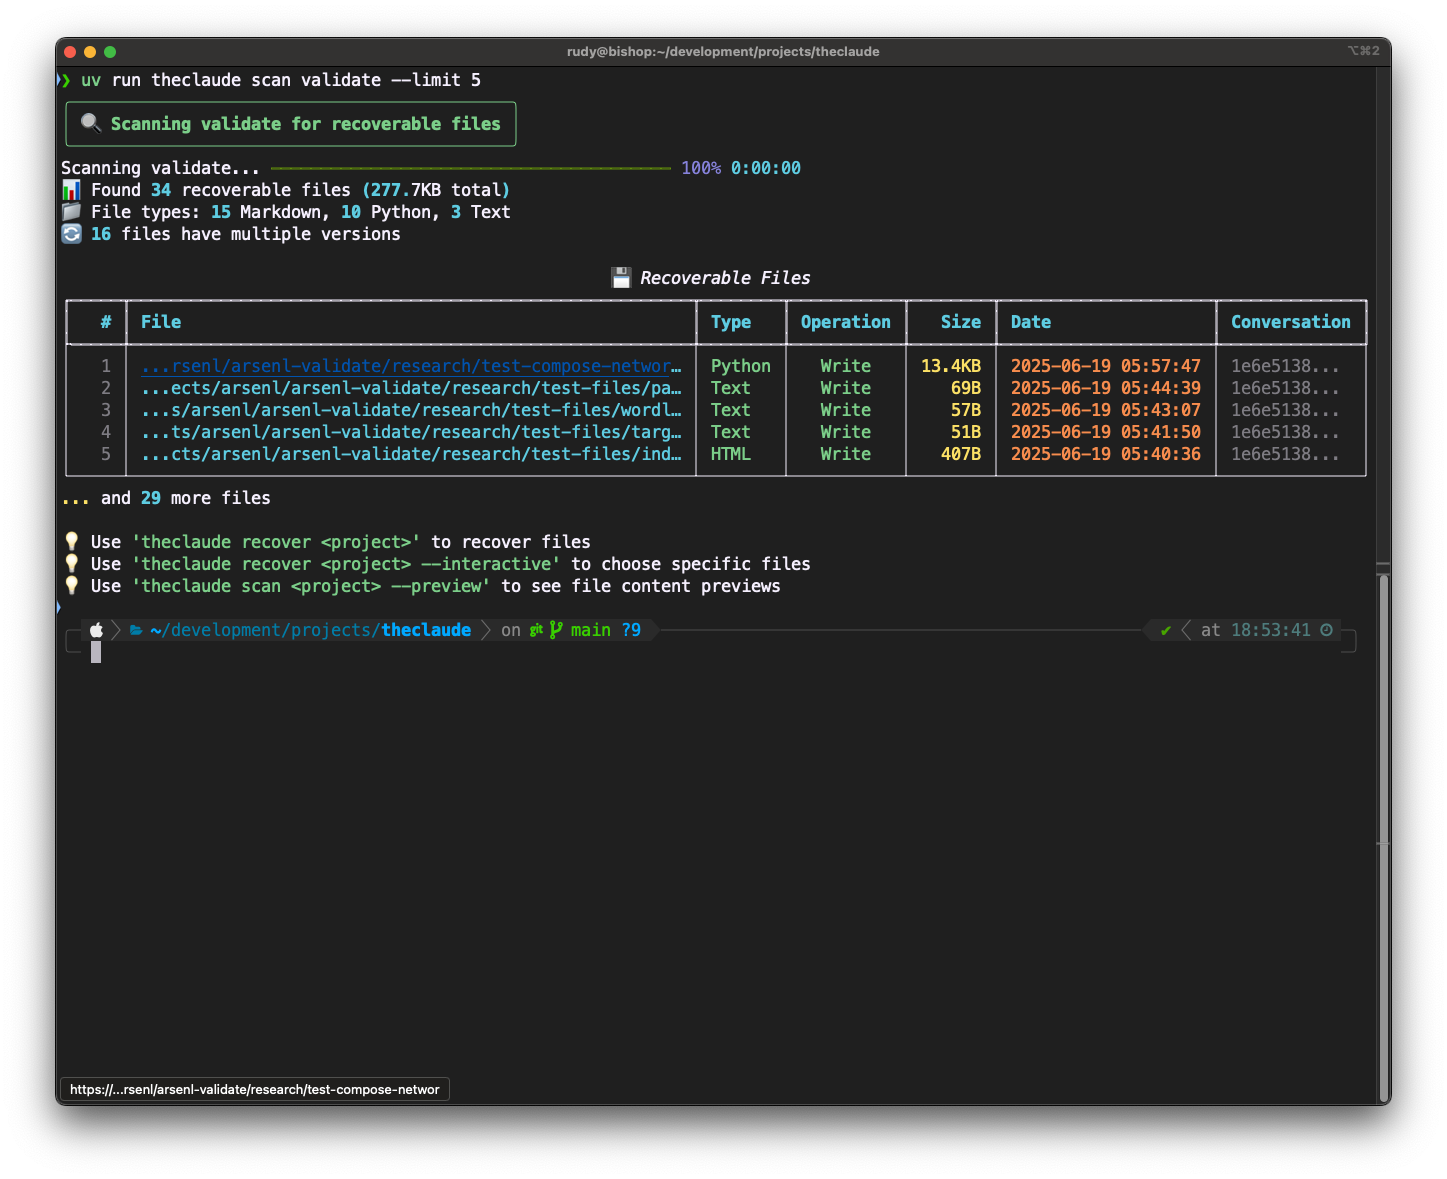
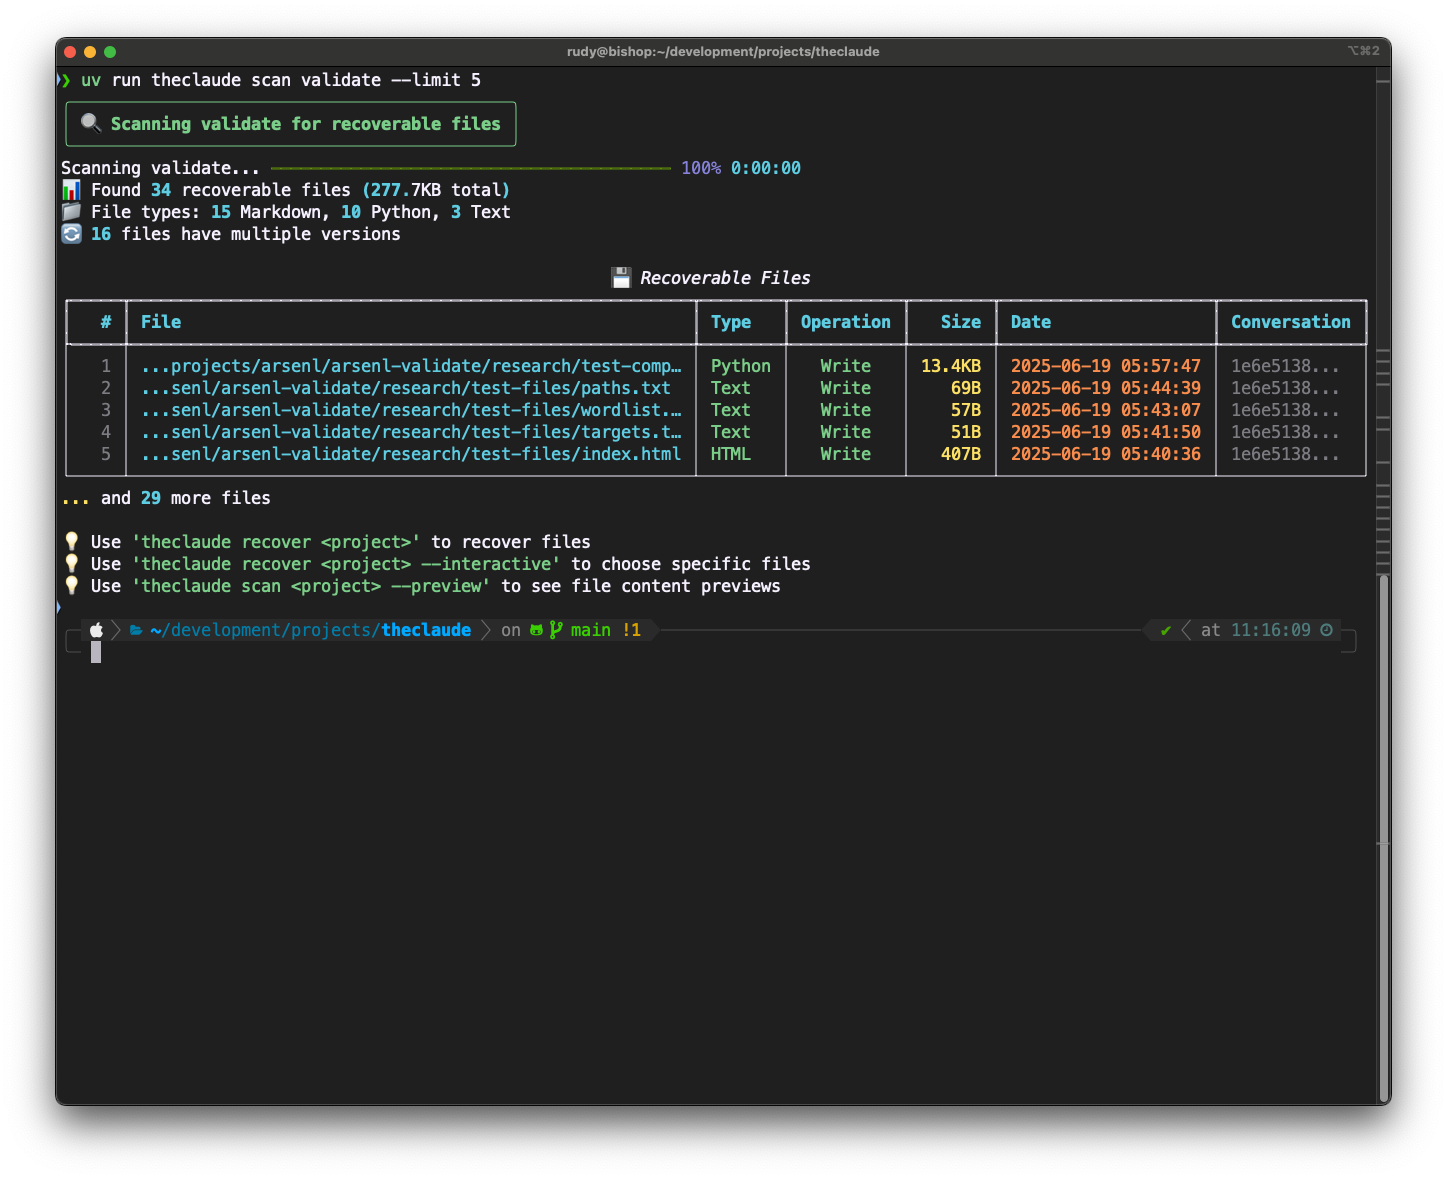
Fix file path display to always show filename + update screenshot
🐛 Fixed truncation logic to preserve filename visibility in scan output.
Previously long paths would hide the actual filename. Now intelligently
truncates the middle of the path while always showing the complete filename.

Example: "...ts/censys-toolkit/censyspy/models.py"
Instead of: "...ments/com~apple~CloudDocs/development/proj..."

- Increased display width from 60 to 80 characters
- Smart truncation preserves filename while shortening parent path
- Better UX for deeply nested project structures
- Updated scan-preview.png screenshot to show improved display

🤖 Generated with [Claude Code](https://claude.ai/code)

Changed region(s): [[0.0933, 0.3053, 0.4665, 0.3969], [0.0311, 0.916, 0.311, 0.9466], [0.8708, 0.5191, 0.9019, 0.5496]]

diff --git a/src/theclaude/cli.py b/src/theclaude/cli.py
@@ -151,10 +151,16 @@ def scan(
     table.add_column("Conversation", style="dim", no_wrap=True)
     
     for i, file_record in enumerate(files[:limit], 1):
-        # Truncate long file paths for display
+        # Truncate long file paths for display, keeping filename visible
         display_path = file_record.file_path
-        if len(display_path) > 60:
-            display_path = "..." + display_path[-57:]
+        if len(display_path) > 80:
+            # Always show the filename by truncating from the beginning
+            filename = Path(display_path).name
+            parent_path = str(Path(display_path).parent)
+            if len(parent_path) > 60:
+                display_path = f"...{parent_path[-40:]}/{filename}"
+            else:
+                display_path = f"{parent_path}/{filename}"
         
         # Color code operation types
         op_style = {
